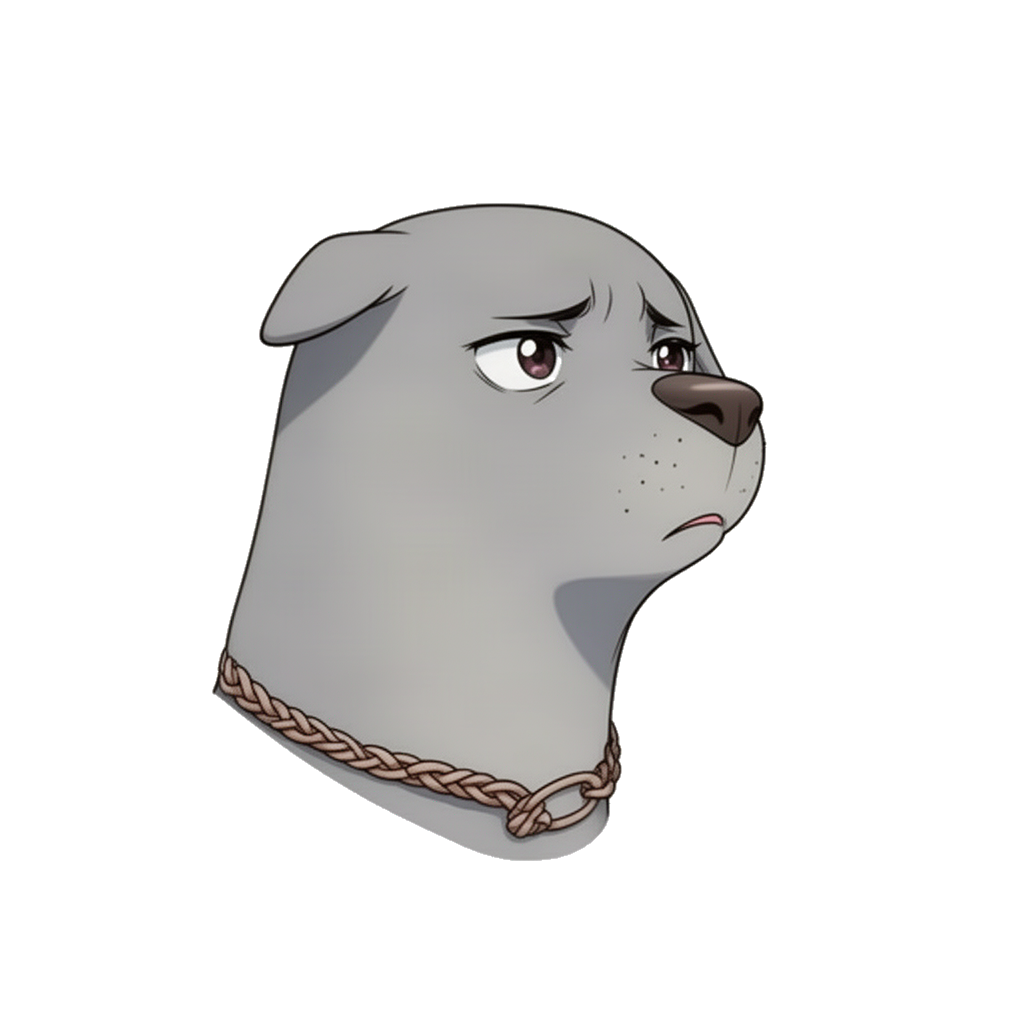
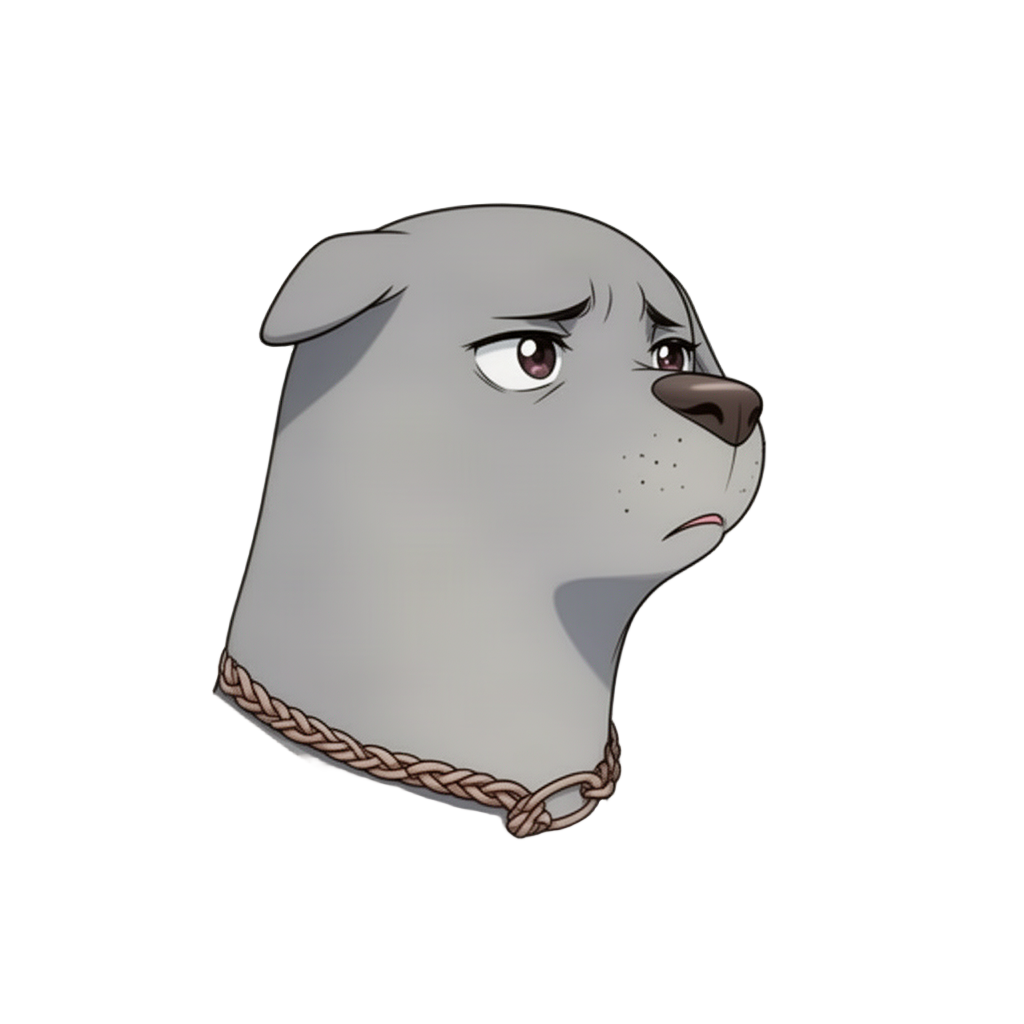
Cut out portraits with BiRefNet (real alpha); add matte mode to ./vn image

Changed region(s): [[0.3125, 0.75, 0.5938, 0.8438], [0.2812, 0.7188, 0.3125, 0.75]]

diff --git a/tools/image.py b/tools/image.py
@@ -148,6 +148,8 @@ def generate(model_name, prompt, refs, out, purpose, chapter=None, size=(1024, 1
     if purpose not in PURPOSES:
         raise ImageError("purpose must be one of: " + ", ".join(PURPOSES))
     m = models[model_name]
+    if m.get("kind") == "matte":
+        return _matte(model_name, m, refs, out, purpose, chapter, dry_run)
     if len(refs) > m["max_refs"]:
         raise ImageError("%s takes at most %d reference images" % (model_name, m["max_refs"]))
     for r in refs:
@@ -200,6 +202,41 @@ def generate(model_name, prompt, refs, out, purpose, chapter=None, size=(1024, 1
     return row
 
 
+def _matte(model_name, m, refs, out, purpose, chapter, dry_run):
+    """Cut the background out of one image with a background-removal model."""
+    if len(refs) != 1 or not Path(refs[0]).exists():
+        raise ImageError("%s needs exactly one --ref image to cut out" % model_name)
+    cost = round(m["price"]["per_image"], 6)
+    new_total, cap = check_cap(cost, purpose)
+    payload = dict(m.get("extra", {}))
+    payload[m["image_field"]] = data_uri(refs[0])
+    if dry_run:
+        return {"dry_run": True, "model": m["id"], "cost": cost, "total_after": new_total, "cap": cap,
+                "payload_keys": sorted(payload), "refs": 1}
+    key = find_key()
+    out = Path(out)
+    row = {"time": L.now(), "model": model_name, "model_id": m["id"], "purpose": purpose, "chapter": chapter,
+           "cost": cost, "out": str(out), "prompt_hash": "", "ok": False}
+    try:
+        resp = call_fal(m["id"], payload, key)
+        images = resp.get("images") or ([resp["image"]] if resp.get("image") else [])
+        if not images or not images[0].get("url"):
+            raise ImageError("fal answered but sent no image")
+        data = download(images[0]["url"])
+        out.parent.mkdir(parents=True, exist_ok=True)
+        out.write_bytes(data)
+        row["ok"] = True
+    except ImageError as e:
+        row["error"] = str(e).replace(key, "***")[:300]
+        if not e.billed:
+            row["cost"] = 0.0
+        _append(row)
+        raise
+    _append(row)
+    row["warn"] = bool(cap and new_total >= budget().get("warn_at", 0.8) * cap)
+    return row
+
+
 def _append(row):
     LEDGER.parent.mkdir(parents=True, exist_ok=True)
     with open(LEDGER, "a", encoding="utf-8") as f:
@@ -209,7 +246,7 @@ def _append(row):
 def cmd_image(argv):
     ap = argparse.ArgumentParser(prog="./vn image", description="Generate one image through fal.ai, logged and capped.")
     ap.add_argument("model")
-    g = ap.add_mutually_exclusive_group(required=True)
+    g = ap.add_mutually_exclusive_group(required=False)
     g.add_argument("--prompt")
     g.add_argument("--prompt-file")
     ap.add_argument("--ref", action="append", default=[], help="reference image; repeat for more")
@@ -220,7 +257,14 @@ def cmd_image(argv):
     ap.add_argument("--aspect", default="1:1", help="for models that take an aspect ratio, e.g. 16:9")
     ap.add_argument("--dry-run", action="store_true")
     a = ap.parse_args(argv)
-    prompt = a.prompt if a.prompt is not None else Path(a.prompt_file).read_text(encoding="utf-8").strip()
+    prompt = a.prompt if a.prompt is not None else \
+        Path(a.prompt_file).read_text(encoding="utf-8").strip() if a.prompt_file else None
+    if prompt is None:
+        models = L.read_json(CONFIG / "models.json")
+        if models.get(a.model, {}).get("kind") != "matte":
+            print("give --prompt or --prompt-file", file=sys.stderr)
+            return 1
+        prompt = ""
     try:
         r = generate(a.model, prompt, a.ref, a.out, a.purpose, a.chapter, parse_size(a.size), a.aspect, a.dry_run)
     except ImageError as e:

diff --git a/docs/decisions.md b/docs/decisions.md
@@ -14,3 +14,5 @@ One dated line each, with the reason. Later sessions must respect these. The dec
 - 2026-11-22: Backgrounds stay at the model's 1920x1088 and Ren'Py scales them to 1920x1080 (under 1% stretch).
 - 2026-11-22: Moving backgrounds are in `game/game/effects.rpy`. Underwater backgrounds (kelp forest, terraces and dome, terrace work; the sea-door pool at half strength) get a very light ripple from a small shader, 40-second loop that returns exactly to its start, picture enlarged 1.2% so no edge shows. Sun rays (`show fx sunrays`) and rain (`show fx rain`) are overlays for scenes above the water; no chapter 1 scene needs them. Verified by having the game save its own frames at two moments (they differ; the rain and rays render). Not verified on a phone.
 - 2026-11-22: `tools/cutout.py` also clears background seen through gaps inside the subject (between hair strands), only where the gap's colour matches the background and is grey, so eye whites and skin highlights stay. Test in `tools/tests/test_cutout.py`.
+- 2026-11-22: Sprites and portraits are now cut out with fal's `birefnet-heavy` (fal-ai/birefnet/v2, model "General Use (Heavy)"), through `./vn image birefnet-heavy --ref in.png --out out.png --purpose sprite`. It returns a real RGBA PNG. Reason: the local `tools/cutout.py` cleared one eye white in Wrack's first portrait (it matched the background grey) and left light outlines around Sefa's hair; BiRefNet kept both clean. Bria RMBG 2.0 (`bria-rmbg`, $0.018) was also tested: same eye result, but faint grey outlines around hair strands. BiRefNet's page says $0 per compute second; the ledger books it at an estimated $0.01 per image. `tools/cutout.py` stays as a free fallback but must not be used on faces without checking the eyes at full size.
+- 2026-11-22: Grey-background portraits are the references in `art/refs/ch01/portraits/`; the cut-out versions are in `art/refs/ch01/portraits_cut/` and are copied to `game/game/images/p_<name>.png`.
